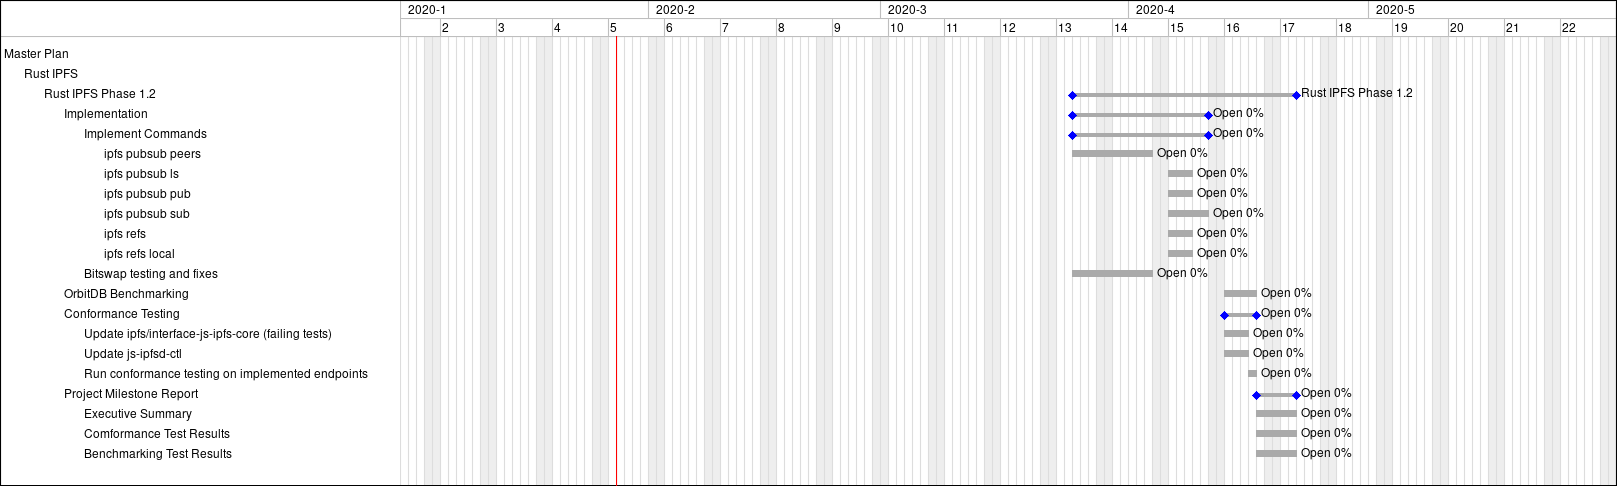
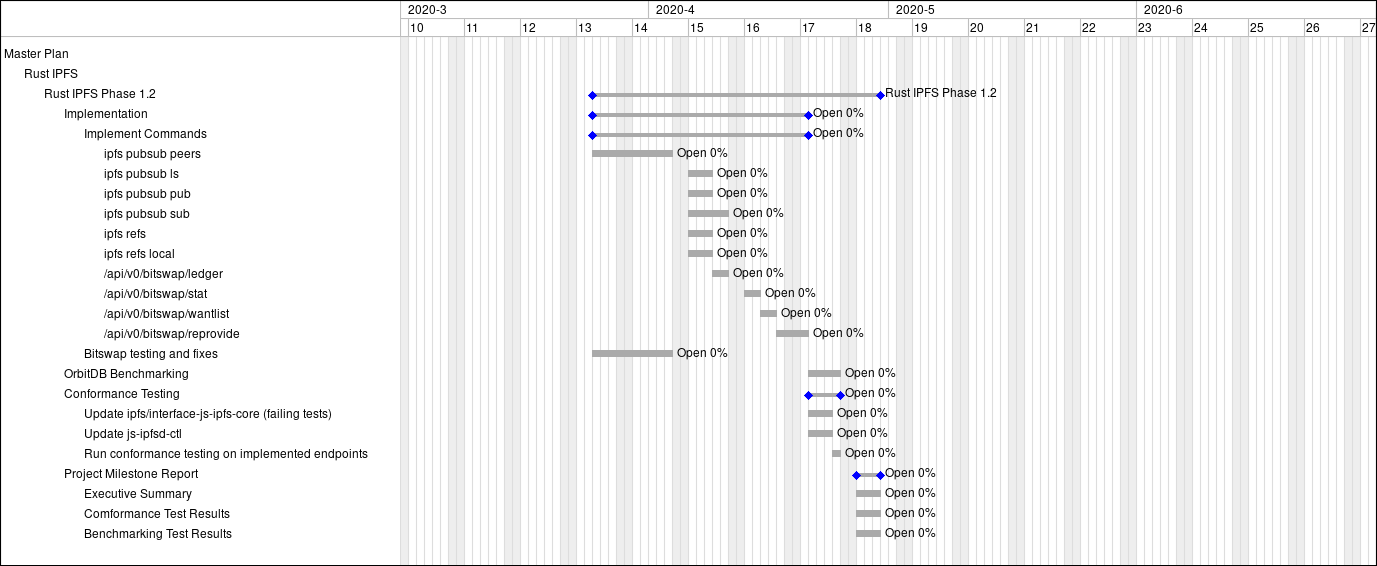
Feedback from comments

Changed region(s): [[0.0, 0.0, 1.0, 1.0]]

diff --git a/open-grants/ipfs-rust/README.md b/open-grants/ipfs-rust/README.md
@@ -32,7 +32,7 @@ MIT/Apache-2.0 license, allowing licensees to choose either at their option._
     * [Implementation Details](#implementation-details)
         * [IPLD](#ipld)
         * [libp2p](#libp2p)
-    * [Metric: Number of CLI Commands Implemented](#metric-number-of-cli-commands-implemented)
+    * [Metric: Number of HTTP Endpoints Implemented](#metric-number-of-http-endpoints-implemented)
     * [Definition of Done](#definition-of-done)
     * [Out of Scope](#out-of-scope)
     * [Phase 1.1 IPLD Foundations](#phase-11-ipld-foundations)
@@ -169,15 +169,19 @@ Many functions that IPFS rely on are wrappers around libp2p functions. These are
 * `ipfs swarm *`
 * `ipfs pubsub *`
 
-### Metric: Number of CLI Commands Implemented
+### Metric: Number of HTTP Endpoints Implemented
 
-There are roughly 153 CLI commands and subcommands that a typical IPFS implementation exposes.
+There are roughly 153 HTTP API endpoints that a typical IPFS implementation exposes.
 While there are a number of other metrics we could choose to suitably track progress, “How
-many commands have been implemented in Rust so far?” is an easy question to ask.
+many endpoints have been implemented in Rust so far?” is an easy question to ask.
 
 This proposal covers about 80 commands, with a number being deemed out of scope. See Figure 4
 at the end of the document for a breakdown of which commands fall under which project phase,
 and Out of Scope Commands for a list out of scope commands.
+
+**Note:** Throughout the proposal, we will refer to commands using either the URL path or the
+CLI represntation of the command, and they should be thought of as interchangable. For example
+`/api/v0/add` will be referred to as `ipfs add` or simply `add`.
 
 ### Definition of Done
 
@@ -186,7 +190,7 @@ Our definition of done aims to be as robust as our KPI is simple. Each command w
 1. There is a working Rust implementation of the command’s functionality
     1. Code is “linted” i.e. code formatting via rustfmt and language idioms via clippy
 2. There is an HTTP binding for said command exposed via the IPFS daemon
-3. There is a CLI command that utilizes either the Rust APIs or the HTTP APIs
+3. (Optional) There is a CLI command that utilizes either the Rust APIs or the HTTP APIs
 4. There are functional and/or unit tests written, and they are passing
 5. There is suitable documentation. In our case, this means:
     1. Each command has a usage example and API specification
@@ -201,7 +205,6 @@ The commands listed below are deemed out of scope for this proposal, and will no
 included as part of the Rust IPFS implementation work done within.
 
 The following commands are simply not required by our use case:
-* `ipfs bitswap { ledger, reprovide, stat, wantlist }`
 * `ipfs cid`
 * `ipfs diag cmds`
 * `ipfs files *`
@@ -281,6 +284,10 @@ support via Rust crate functions, the HTTP API, as well as CLI commands.
 #### Deliverables
 
 1. Definition of Done for:
+    * `ipfs bitswap ledger`
+    * `ipfs bitswap reprovide`
+    * `ipfs bitswap stat`
+    * `ipfs bitswap wantlist`
     * `ipfs pubsub ls`
     * `ipfs pubsub peers`
     * `ipfs pubsub pub`
@@ -294,7 +301,7 @@ support via Rust crate functions, the HTTP API, as well as CLI commands.
 
 #### Development Schedule
 
-Development will take place over an estimated 5 weeks of development. The following chart
+Development will take place over an estimated 6 weeks of development. The following chart
 assumes a week 13 start date (Feb 25).
 
 ##### Figure 2. Phase 1.2 Gantt Chart
@@ -305,7 +312,7 @@ assumes a week 13 start date (Feb 25).
 
 |  | Number of Hours | Hourly Rate | Total (Euros) | Total (USD) |
 | --- | ---- | ---- | ---- | --- |
-| Software Development and Project Management | 424 hours | 120€ | 50,880€ | $56,066.20 |
+| Software Development and Project Management | 488 hours | 120€ | 58,560€ | $64,432.40 |
 
 ### Phase 2 and Onward
 
